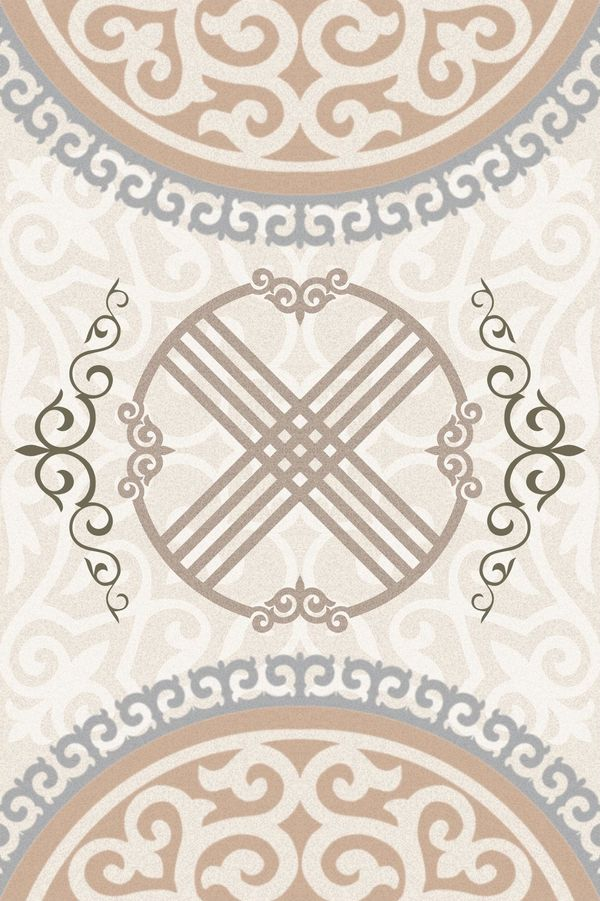
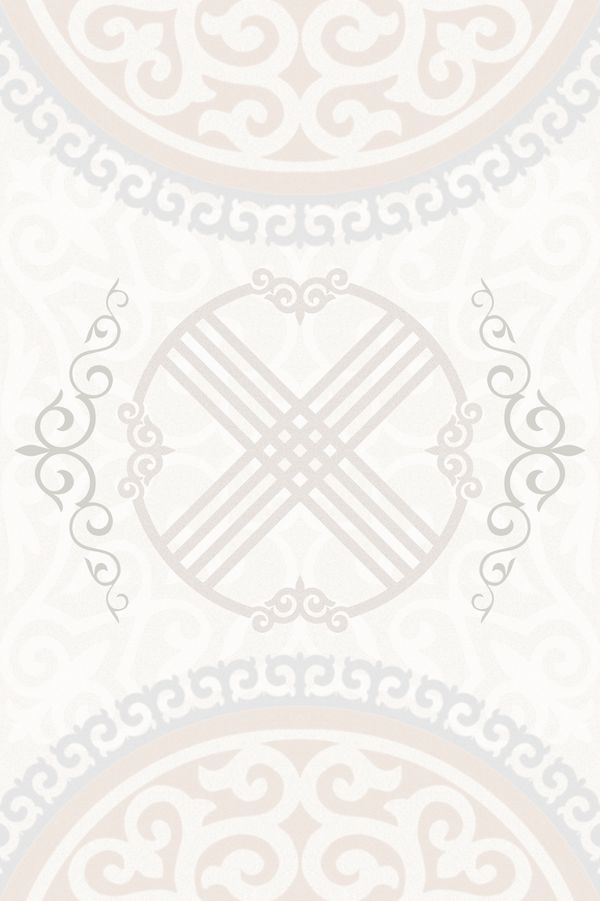
Ornament background at 70% transparency
Claude-Session: https://claude.ai/code/session_01CpyUnbU1eyVdz67zJadKtU

diff --git a/qr.html b/qr.html
@@ -4,7 +4,7 @@
 <link href="https://fonts.googleapis.com/css2?family=Onest:wght@400;500;600;700&display=swap" rel="stylesheet">
 <style>
 *{box-sizing:border-box;margin:0;padding:0}
-body{min-height:100vh;display:flex;align-items:center;justify-content:center;padding:24px;background:#f6efe6 url(img/ornament.jpg) center/390px auto repeat;font-family:Onest,system-ui,'PingFang SC',sans-serif;color:#2b1a14}
+body{min-height:100vh;display:flex;align-items:center;justify-content:center;padding:24px;background:#fcfaf7 url(img/ornament.jpg?v=2) center/390px auto repeat;font-family:Onest,system-ui,'PingFang SC',sans-serif;color:#2b1a14}
 .card{width:min(100%,380px);background:#fff;border:1px solid #efd9cc;border-radius:26px;padding:30px 26px 26px;text-align:center;box-shadow:0 18px 40px -24px rgba(120,50,20,.35)}
 .logo{width:62px;height:62px;margin:0 auto}
 .wm{margin-top:10px;font-weight:600;font-size:18px;letter-spacing:.32em;padding-left:.32em;text-transform:uppercase}

diff --git a/index.html b/index.html
@@ -18,7 +18,7 @@
 }
 *{box-sizing:border-box;margin:0;padding:0;-webkit-tap-highlight-color:transparent}
 html{scroll-behavior:smooth}
-body{background:#f6efe6 url(img/ornament.jpg) center top/390px auto repeat;color:var(--ink);font:15px/1.45 Onest,system-ui,'PingFang SC','Noto Sans SC','Microsoft YaHei',sans-serif;
+body{background:#fcfaf7 url(img/ornament.jpg?v=2) center top/390px auto repeat;color:var(--ink);font:15px/1.45 Onest,system-ui,'PingFang SC','Noto Sans SC','Microsoft YaHei',sans-serif;
   padding-bottom:env(safe-area-inset-bottom)}
 h1,h2,h3,.name,.chip,.price,.lang button{font-family:Onest,system-ui,sans-serif}
 img{display:block;max-width:100%}
